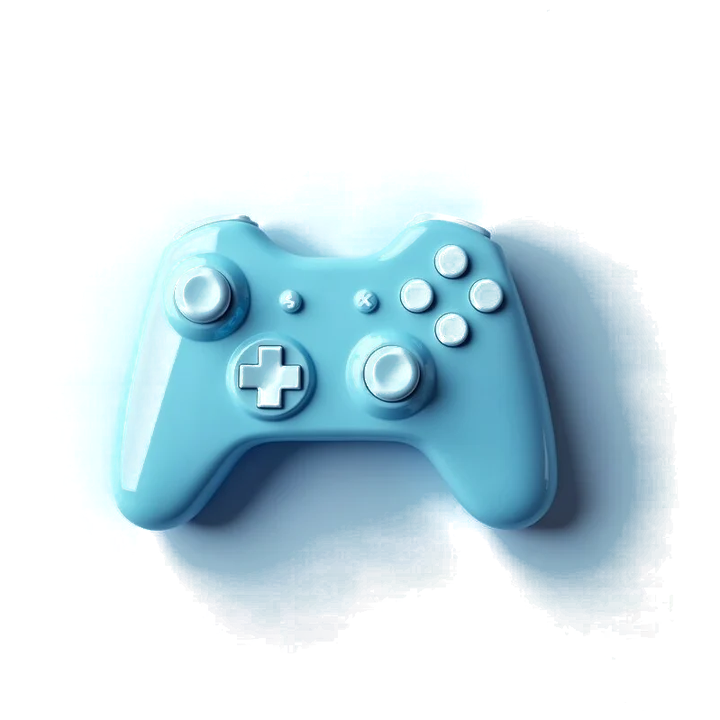
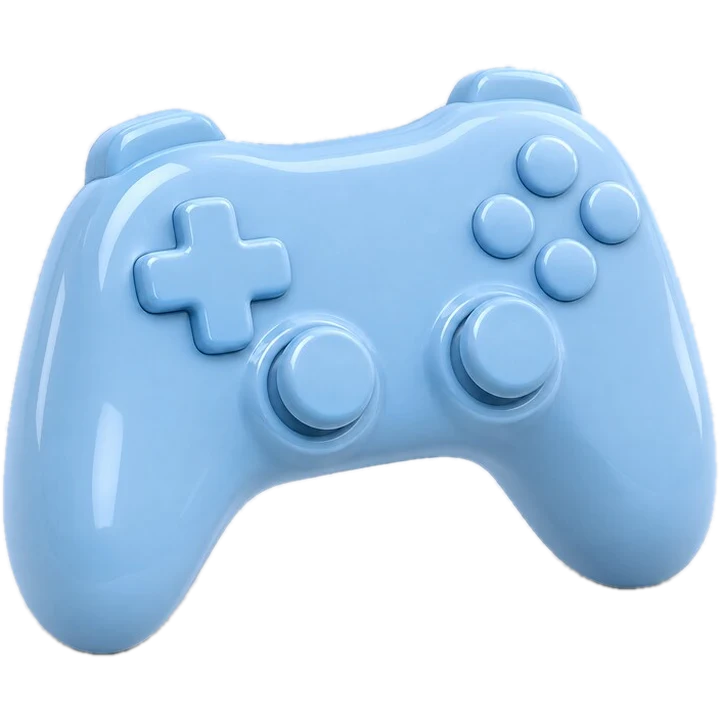
Oferta do mês: download em primeiro, mais respiro, ícones preenchidos, verso nítido com troca de aplicativo, ícone de informação e controle 3D refeito
Claude-Session: https://claude.ai/code/session_01GA8rzRnhH12zDUCvgtRjm9

diff --git a/js/home.js b/js/home.js
@@ -342,7 +342,7 @@
   const DESTAQUE = {
     '1000': { obj: '/img/3d-g/controle.webp', nome: 'Internet + NoPing grátis por 6 meses',
       txt: 'A velocidade para a casa toda: jogos, chamadas de vídeo, séries em 4K e vários aparelhos ligados ao mesmo tempo.',
-      info: [['500 Mega de upload', 'Envie vídeos e faça lives sem fila'], ['Modem Wi-Fi 6', 'Mais alcance pela casa, sem custo'], ['NoPing por 6 meses', 'Menos atraso nos jogos online'], ['Instalação em até 48 h', 'Grátis, com teste de velocidade']] },
+      info: [['1.000 Mega de download', 'Séries em 4K e jogos sem travar'], ['500 Mega de upload', 'Envie vídeos e faça lives sem fila'], ['Modem Wi-Fi 6', 'Mais alcance pela casa, sem custo'], ['Instalação em até 48 h', 'Grátis, com teste de velocidade']] },
   };
   const ofertaCasa = (todos) => todos.find((p) => p.selo === 'OFERTA DO MÊS' && p.id !== '2000') || todos.find((p) => p.id === '1000');
 
@@ -352,15 +352,16 @@
     const o = p.opcoes[opIdx(p)];
     const spec = [['Download', val(p, 'Download')], ['Upload', val(p, 'Upload')], ['Modem', val(p, 'Modem')], ['Aplicativos', appsNet(p)], ['Instalação', 'Grátis, em até 48 horas'], ['Fidelidade', '12 meses']];
     v.innerHTML = `
+      <div class="mil__v-obj" aria-hidden="true"><img src="/img/3d-g/info.webp" alt=""></div>
       <div class="mil__v-esq">
         <span class="mil__selo">OFERTA DO MÊS</span>
         <p class="mil__v-t"><b>${milhar(p.num)} Mega</b><span>em detalhes</span></p>
-        <ul class="mil__spec">${[['Download', val(p, 'Download')], ['Upload', val(p, 'Upload')], ['Modem', val(p, 'Modem')], ['Instalação', 'Grátis, em até 48 h'], ['Fidelidade', '12 meses'], ['Franquia', 'Sem limite de uso']].map(([a, b]) => `<li><span>${a}</span><b>${b}</b></li>`).join('')}</ul>
-        ${appsLogos(p)}
+        <ul class="mil__spec">${[['Download', val(p, 'Download')], ['Upload', val(p, 'Upload')], ['Modem', val(p, 'Modem')], ['Instalação em até 48 h', 'Grátis'], ['Atendimento', 'WhatsApp 24 h'], ['Franquia', 'Sem limite de uso']].map(([a, b]) => `<li><span>${a}</span><b>${b}</b></li>`).join('')}</ul>
+        ${p.opcoes.length > 1 ? `<div class="mil__v-apps"><p class="mil__t">Escolha o seu aplicativo</p><div class="ops ops--3" role="radiogroup" aria-label="Aplicativo do plano">${opsVisiveis(p).map((k) => tile(p, k)).join('')}</div></div>` : appsLogos(p)}
       </div>
       <div class="mil__v-dir">
         <p class="mil__v-de">De <s>${brl(o.de || p.de)}</s> por</p>
-        ${precoHtml(o.preco, 'v' + p.id).replace('pc__preco', 'pc__preco pc__preco--g')}
+        ${precoHtml(o.preco, p.id).replace('pc__preco', 'pc__preco pc__preco--g')}
         <p class="mil__v-nota">No débito em conta. No boleto ou PIX, ${brl(DY.boletoPix || 10)} a mais por mês.</p>
         <div class="cbw">${cbNet(p, o)}</div>
         <p class="mil__v-val">Oferta válida até ${DY.validadeOferta || '01/12/2026'}.</p>
@@ -373,13 +374,20 @@
     if (paraVerso === milVirado) return; milVirado = paraVerso;
     $('[data-mil-virar]', box).setAttribute('aria-expanded', String(paraVerso));
     const calmo = matchMedia('(prefers-reduced-motion: reduce)').matches;
-    const fim = () => { box.classList.toggle('is-virado', paraVerso); v.hidden = !paraVerso; frente.forEach((f) => (f.inert = paraVerso)); (paraVerso ? $('[data-mil-voltar]', v) : $('[data-mil-virar]', box)).focus({ preventScroll: true }); };
+    const foco = () => (paraVerso ? $('[data-mil-voltar]', v) : $('[data-mil-virar]', box)).focus({ preventScroll: true });
+    const plano = () => { if (window.gsap) gsap.set(box, { clearProps: 'transform' }); box.style.transform = ''; };
     // o verso pode ter mais conteúdo que a frente (no celular): o card cresce para caber
     if (paraVerso) { v.hidden = false; const alt = v.scrollHeight + 6; if (alt > box.offsetHeight + 2) { box.dataset.altura = box.offsetHeight; temGsap ? gsap.to(box, { minHeight: alt, duration: .6, ease: 'power2.inOut' }) : (box.style.minHeight = alt + 'px'); } }
     else if (box.dataset.altura) { temGsap ? gsap.to(box, { minHeight: 0, duration: .6, delay: .35, ease: 'power2.inOut', clearProps: 'minHeight' }) : (box.style.minHeight = ''); delete box.dataset.altura; }
-    if (!temGsap || calmo) { gsap?.set?.(box, { rotateX: paraVerso ? -180 : 0, transformPerspective: 2400 }); if (!temGsap) box.style.transform = paraVerso ? 'perspective(2400px) rotateX(-180deg)' : ''; fim(); return; }
-    gsap.to(box, { rotateX: paraVerso ? -180 : 0, transformPerspective: 2400, duration: .95, ease: 'power3.inOut', onComplete: fim });
-    gsap.fromTo($('.obj', box), { y: 0 }, { y: -26, duration: .45, yoyo: true, repeat: 1, ease: 'power2.out' });
+    const fimIda = () => { box.classList.add('is-virado'); plano(); frente.forEach((f) => (f.inert = true)); foco(); };
+    const fimVolta = () => { plano(); v.hidden = true; frente.forEach((f) => (f.inert = false)); foco(); };
+    if (!temGsap || calmo) { if (paraVerso) fimIda(); else { box.classList.remove('is-virado'); fimVolta(); } return; }
+    if (paraVerso) {
+      gsap.fromTo(box, { rotateX: 0, transformPerspective: 2400 }, { rotateX: -180, duration: .95, ease: 'power3.inOut', onComplete: fimIda });
+    } else {
+      box.classList.remove('is-virado'); gsap.set(box, { rotateX: -180, transformPerspective: 2400 });
+      gsap.to(box, { rotateX: 0, duration: .95, ease: 'power3.inOut', onComplete: fimVolta });
+    }
   }
   document.addEventListener('click', (e) => {
     if (e.target.closest('[data-mil-virar]')) { versoMil(ofertaCasa(casa())); virarMil(true); }
@@ -461,7 +469,7 @@
     $$('.op', grupo).forEach((x) => { const on = x === b; x.classList.toggle('is-on', on); x.setAttribute('aria-checked', String(on)); });
     if (temGsap) gsap.fromTo(b, { scale: .94 }, { scale: 1, duration: .45, ease: 'back.out(3)' });
     const noDestaque = !!b.closest('[data-mil]'); const raiz = noDestaque ? $('[data-mil]') : b.closest('.pc');
-    if (noDestaque) blocoMil(p);
+    if (noDestaque) { blocoMil(p); if (milVirado) { const sel = $('[data-mil-verso] .op.is-on'); if (sel) sel.focus({ preventScroll: true }); } }
     else {
       raiz.querySelector('.pc__de').textContent = 'De ' + brl(o.de || p.de);
       { const w = raiz.querySelector('.cbw'); if (w) w.innerHTML = cbNet(p, o); }

diff --git a/css/home.css b/css/home.css
@@ -1356,3 +1356,57 @@ main > section.topo { height: auto !important; min-height: 100svh; }
 
 .cb .cb__t { align-self: center; font-size: 14px; font-weight: 500; line-height: 1.25; }
 .apl ul { list-style: none; margin: 0; padding: 0; }
+
+/* ===== 18/11 (noite 4): oferta do mês mais arejada, verso nítido e com troca de aplicativo ===== */
+/* giro: durante a animação o card é 3D; parado, o verso fica plano (texto nítido) */
+.mil[data-mil] { will-change: auto; }
+.mil.is-virado .mil__verso { transform: none; }
+.mil.is-virado > .mil__esq, .mil.is-virado > .mil__dir, .mil.is-virado > .obj { visibility: hidden; }
+.mil__verso { overflow: visible; }
+/* ícone de informação no lugar do controle, quando o card está virado */
+.mil__v-obj { position: absolute; right: -24px; top: -86px; width: 170px; z-index: 4; pointer-events: none; }
+.mil__v-obj img { width: 100%; filter: drop-shadow(0 18px 22px rgb(0 0 0 / .35)); }
+@media (max-width: 1123px) { .mil__v-obj { width: 130px; top: -66px; } }
+@media (max-width: 619px) { .mil__v-obj { width: 96px; top: -46px; right: -4px; } }
+
+/* frente: mais respiro entre preço, cashback e botões */
+.mil__dir .mil__val { margin-top: 20px; }
+.mil [data-mil-cb] { margin-top: 18px; }
+.mil__dir .mil__bts { margin-top: 26px; gap: 14px; }
+
+/* ícones dos aplicativos preenchendo o quadrado, como o do NoPing */
+.op__ic { overflow: hidden; border-radius: 12px; }
+.op__ic img, .mil .op__ic img { width: 100%; height: 100%; max-width: none; max-height: none; object-fit: cover; border-radius: 12px; }
+.mil .op__ic { background: transparent; }
+.op__ic:has(img[src*="noping"]) { background: #0d0d0d; }
+.op__ic img[src*="noping"] { width: 70%; height: auto; object-fit: contain; border-radius: 0; }
+.apl__ic { overflow: hidden; border-radius: 10px; }
+.apl__ic img { width: 100%; height: 100%; max-width: none; max-height: none; object-fit: cover; border-radius: 10px; }
+.apl__ic--preto img { width: 72%; height: auto; object-fit: contain; border-radius: 0; }
+
+/* verso: letras um pouco maiores, espaçamento e aplicativos centralizados */
+.mil__verso { gap: 40px; padding: 48px 52px; }
+.mil__v-esq { gap: 18px; }
+.mil__spec { gap: 12px; }
+.mil__spec li { padding: 15px 18px; }
+.mil__spec span { font-size: 14px; } .mil__spec b { font-size: 17px; }
+.mil__v-t { font-size: 24px; }
+.mil__v-apps { display: grid; justify-items: center; gap: 10px; margin-top: 4px; padding: 16px; border-radius: 20px; background: rgb(255 255 255 / .04); border: 1px solid rgb(255 255 255 / .08); }
+.mil__v-apps .mil__t { margin: 0; text-align: center; color: var(--ouro); }
+.mil__v-apps .ops { width: 100%; max-width: 460px; }
+.mil__verso .apl { text-align: center; } .mil__verso .apl ul { justify-content: center; }
+.mil__v-dir { gap: 10px; padding: 32px; }
+.mil__v-de { font-size: 16px; }
+.mil__v-nota { font-size: 14.5px; margin-bottom: 8px; }
+.mil__v-dir .cbw { margin-top: 6px; }
+.mil__v-val { font-size: 13.5px; margin-top: 4px; }
+.mil__v-dir .mil__bts { margin-top: 22px; gap: 12px; }
+.mil__verso .bt-mini { min-height: 44px; font-size: 15px; }
+@media (max-width: 1123px) { .mil__verso { padding: 40px 32px; gap: 24px; } }
+@media (max-width: 619px) {
+  .mil__verso { padding: 28px 16px 20px; gap: 16px; }
+  .mil__spec li { padding: 11px 12px; } .mil__spec span { font-size: 12px; } .mil__spec b { font-size: 14.5px; }
+  .mil__v-apps { padding: 12px 8px; }
+  .mil__v-dir { padding: 20px 14px; }
+  .mil__dir .mil__bts { margin-top: 18px; }
+}
